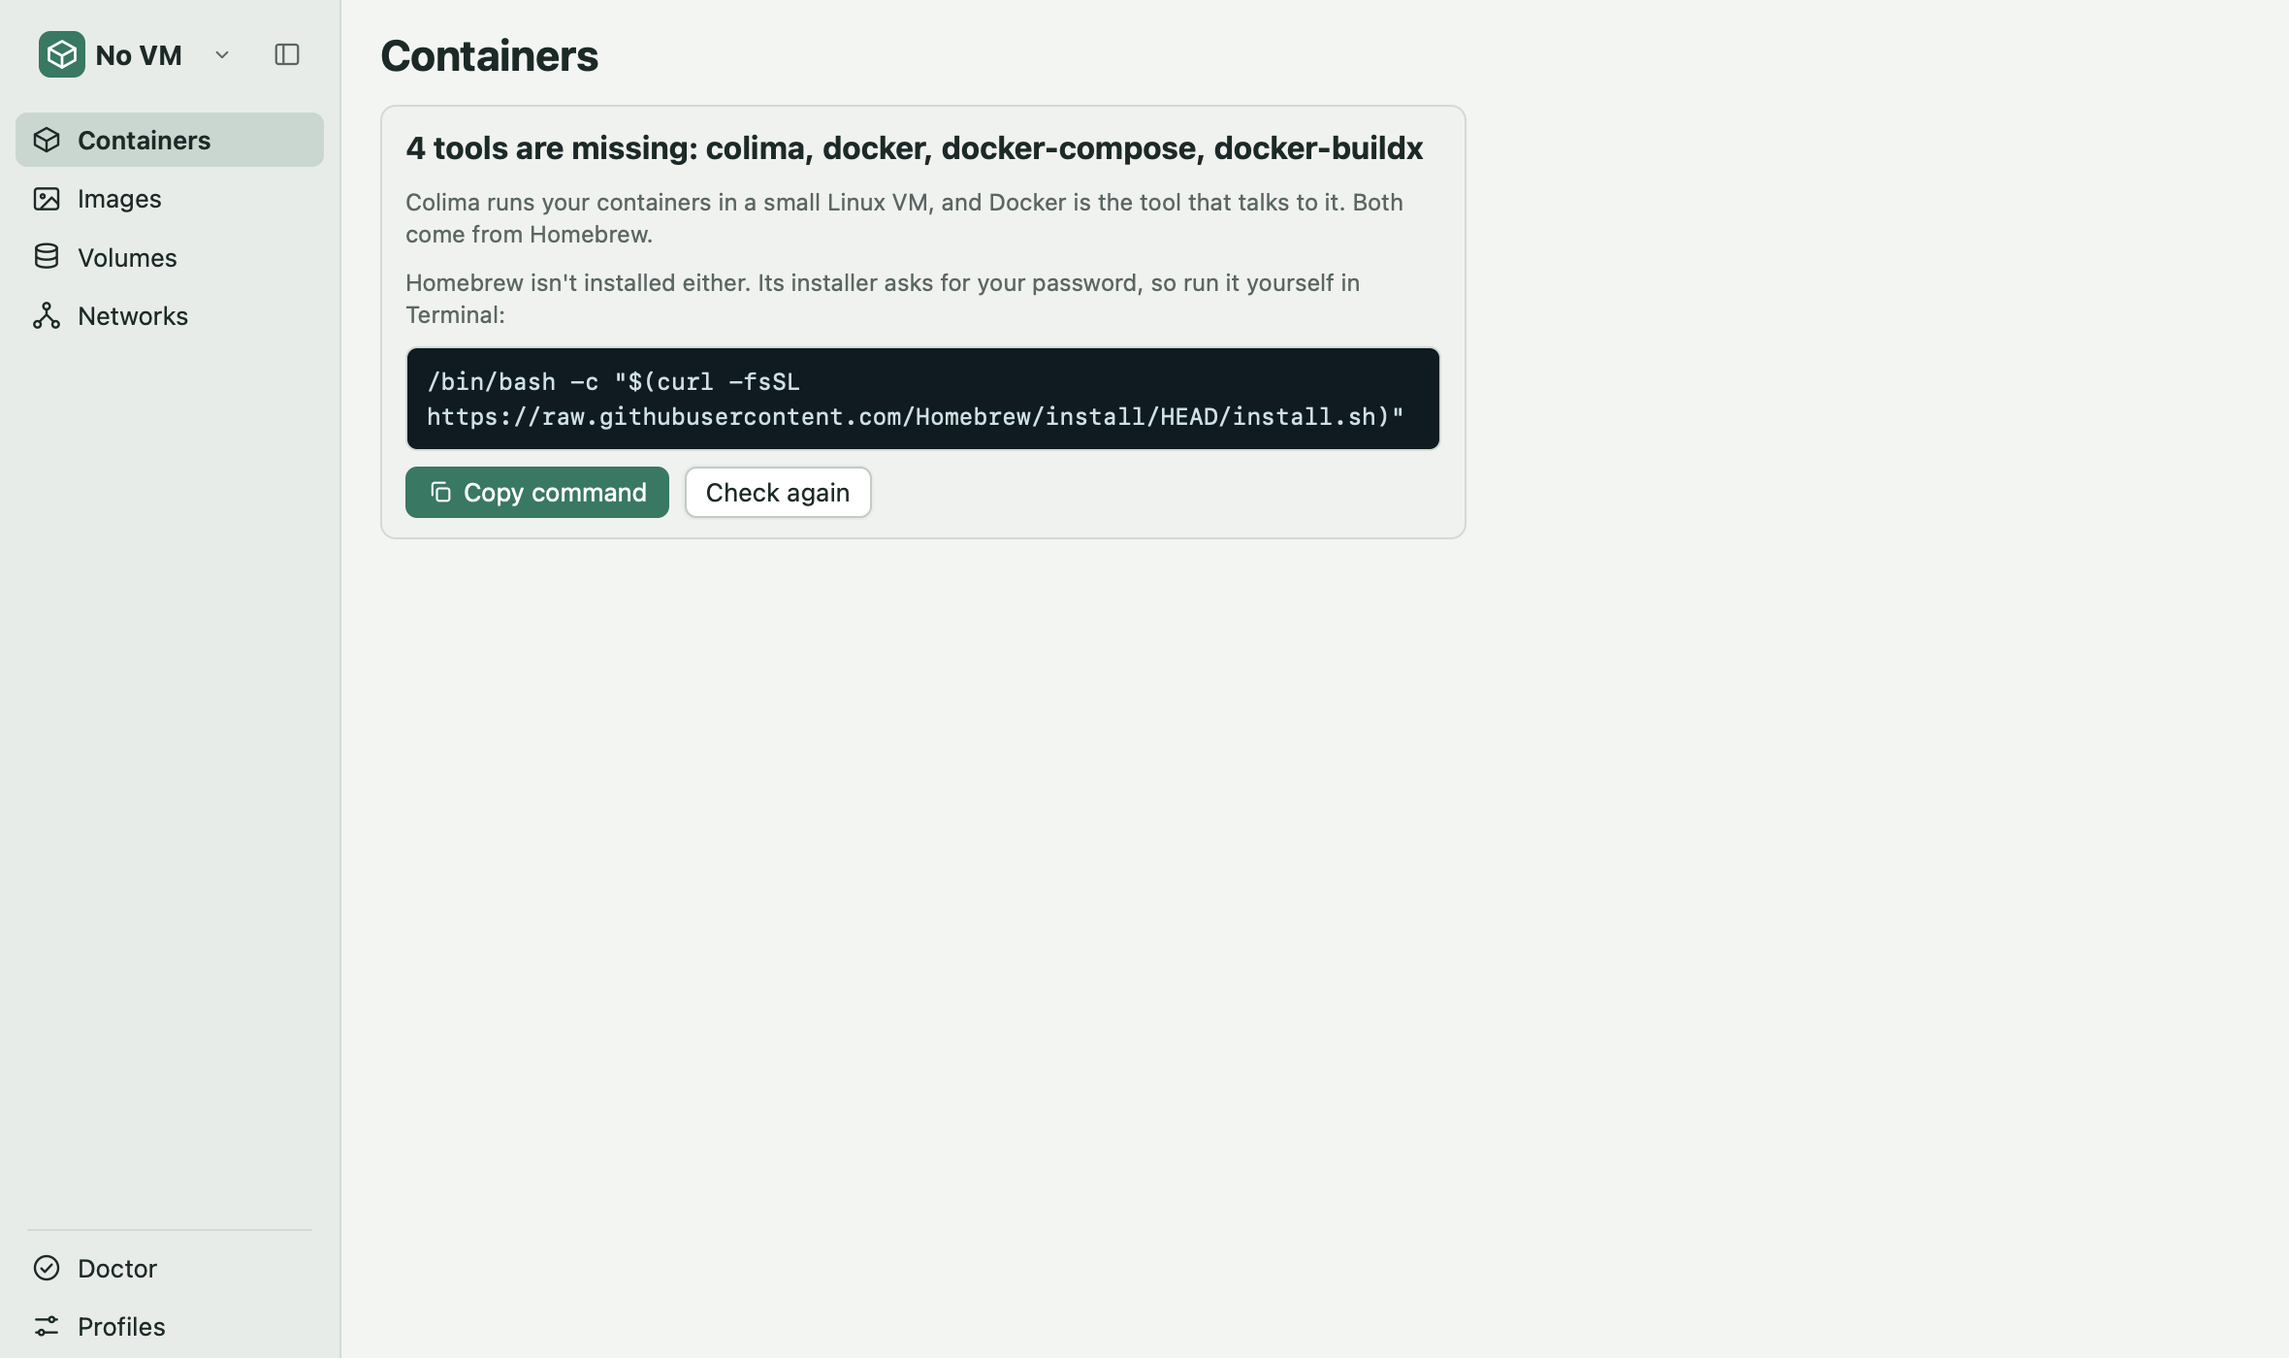
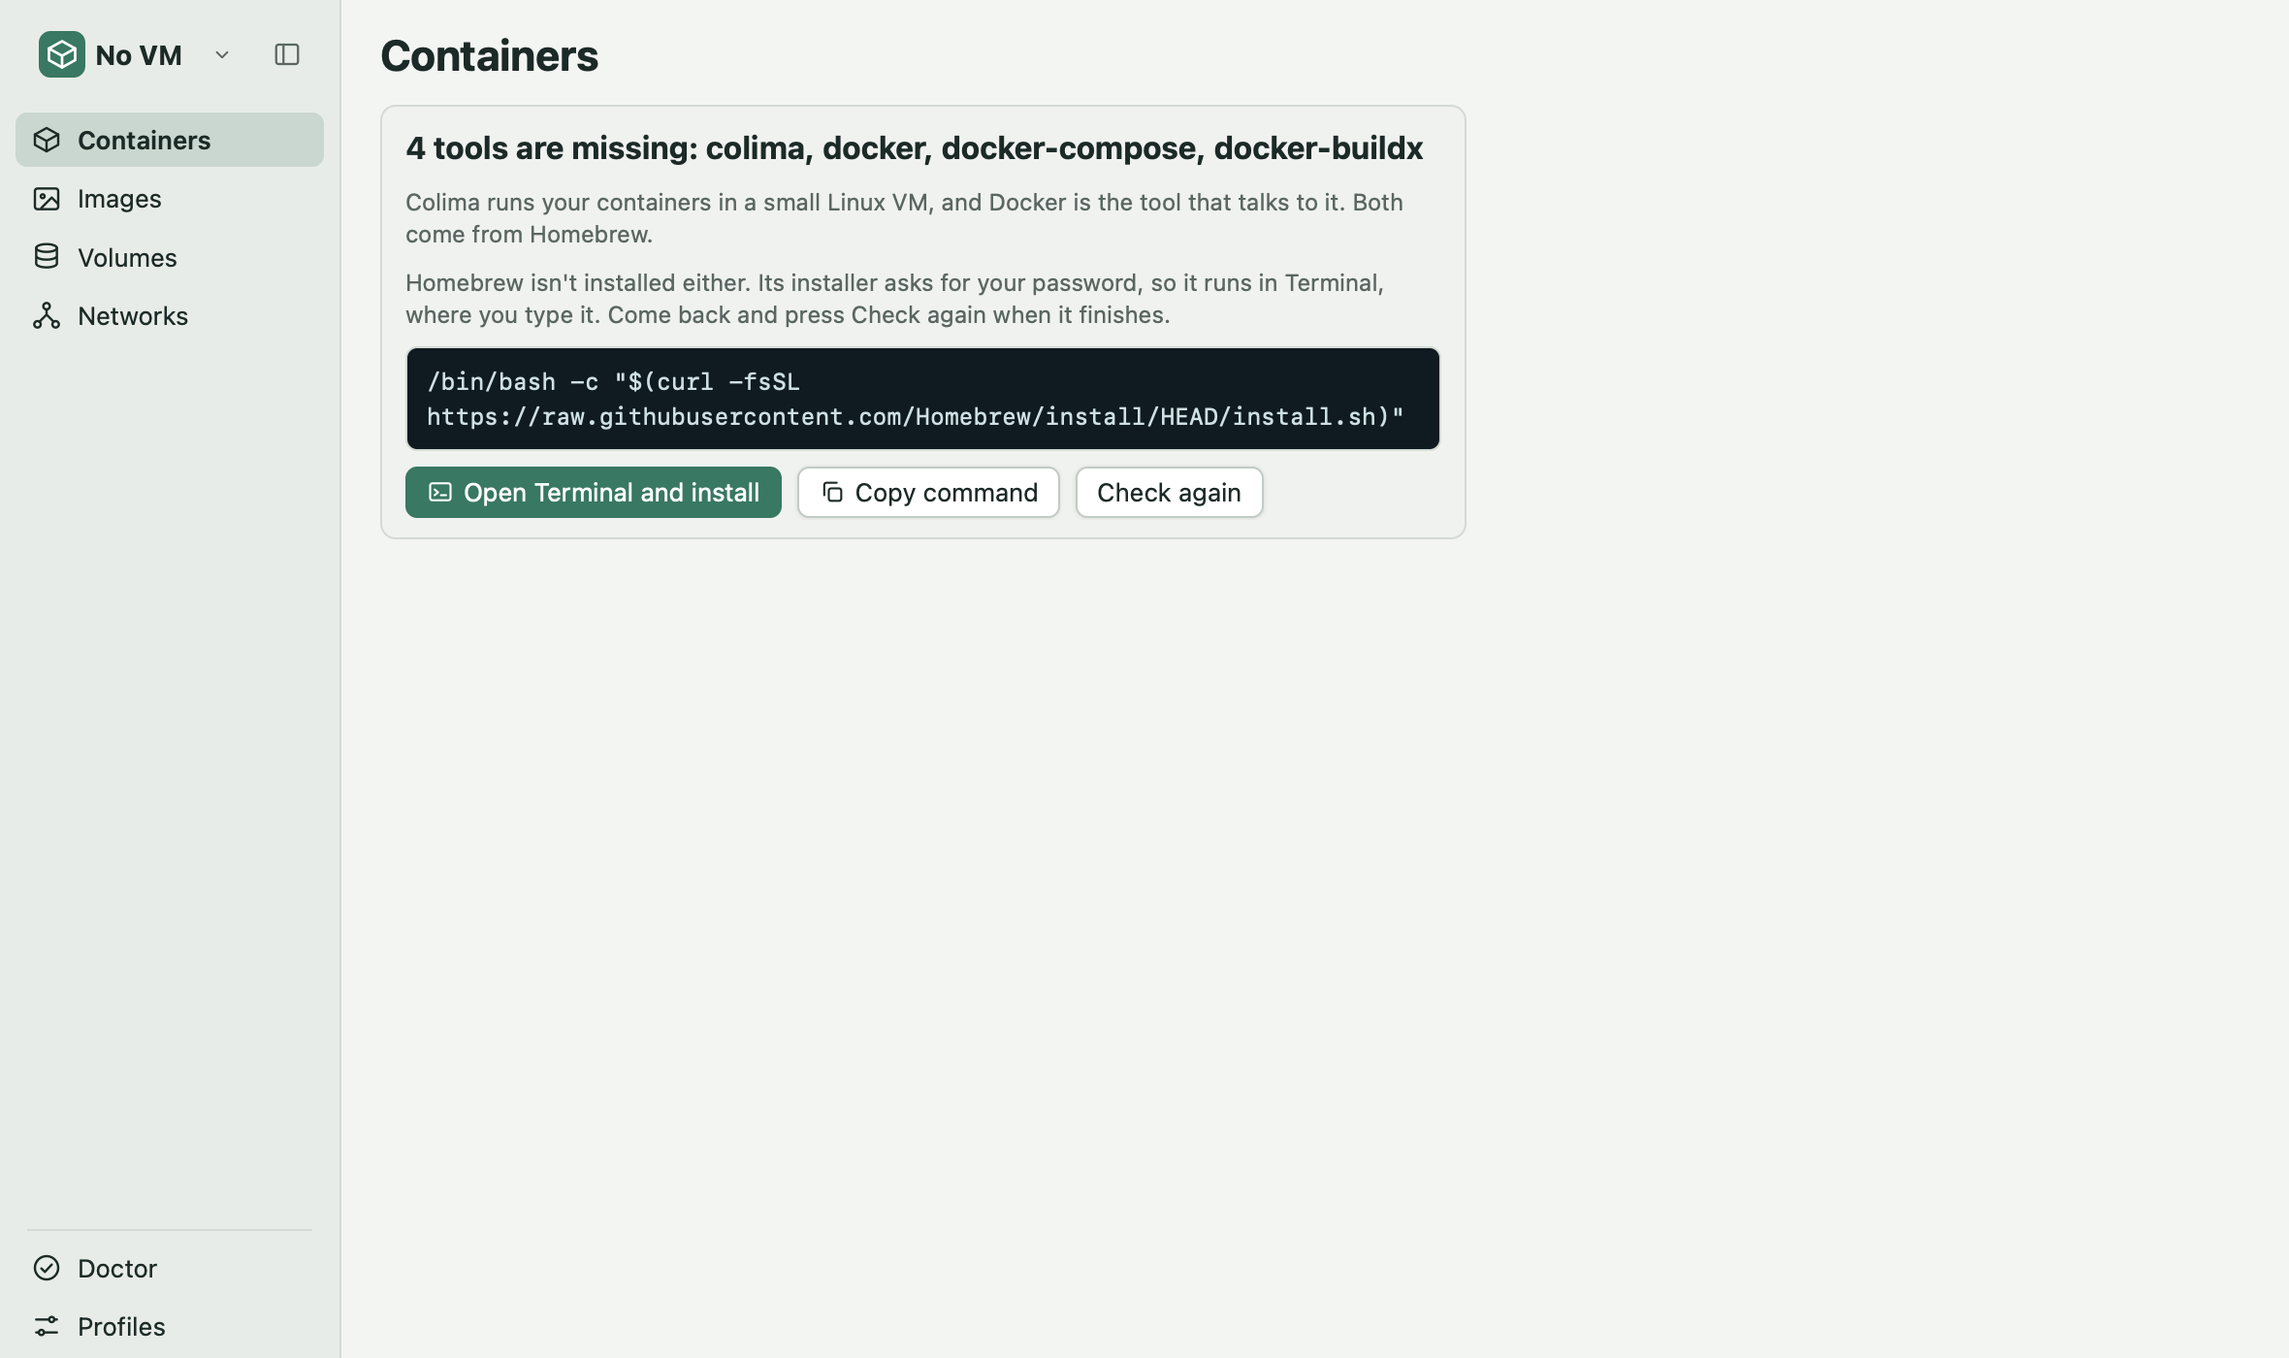
fix: one main action per Compose project, every option explained, no action links
Compose projects are compact rows with Start or Stop and a menu whose
items say when you'd use them; Down is now Remove containers. Action
links across the app are buttons. First launch opens Terminal to
install Homebrew. Escape in a menu no longer closes its panel.

Changed region(s): [[0.1856, 0.3379, 0.5568, 0.3993], [0.1856, 0.215, 0.4949, 0.2457], [0.5258, 0.1843, 0.5877, 0.215]]

diff --git a/src/ComposeProjects.tsx b/src/ComposeProjects.tsx
@@ -91,6 +91,7 @@ export default function ComposeProjects({ ctx, scan, containers, attention, onCl
   const confirm = useConfirm();
   const [q, setQ] = useState(query);
   const [err, setErr] = useState<string | null>(null);
+  const [cmdsOpen, setCmdsOpen] = useState<Set<string>>(new Set());
   const [added, setAdded] = useState<string | null>(null);
   // One project's live logs open at a time; a read, so it never waits for a run.
   const [logsDir, setLogsDir] = useState<string | null>(null);
@@ -188,6 +189,7 @@ export default function ComposeProjects({ ctx, scan, containers, attention, onCl
             { label: "Rebuild and start", ariaLabel: `Rebuild ${p.name}`, hint: "After you change a Dockerfile or the code it copies in", disabled: off, onSelect: () => void run(p, "build") },
             { label: "Update images and start", ariaLabel: `Update images of ${p.name}`, hint: "Downloads newer versions of the images first", disabled: off, onSelect: () => void run(p, "pull") },
             ...(p.total > 0 ? [{ label: logsHere ? "Hide logs" : "Show logs", ariaLabel: `Logs of ${p.name}`, hint: "What the services print, live", divider: true, onSelect: () => setLogsDir(logsHere ? null : p.dir) }] : []),
+            { label: cmdsOpen.has(p.dir) ? "Hide the commands" : "Run it yourself", ariaLabel: `${cmdsOpen.has(p.dir) ? "Hide" : "Show"} the commands to run ${p.name} yourself`, hint: "The commands to copy into Terminal", onSelect: () => setCmdsOpen((o) => { const n = new Set(o); if (!n.delete(p.dir)) n.add(p.dir); return n; }) },
             { label: "Show in Finder", ariaLabel: `Show ${p.name} in Finder`, hint: "Opens the folder with the Compose file", onSelect: () => void invoke("reveal_compose", { path: `${p.dir}/${p.files[0]}` }).then(() => setErr(null), (e) => setErr(String(e))) },
             ...((up || leftovers) ? [{ label: "Remove containers", ariaLabel: `Remove containers of ${p.name}`, hint: "Stops and removes them; volumes and data are kept", danger: true, divider: true, disabled: off, onSelect: () => void run(p, "down") }] : []),
           ];
@@ -217,8 +219,8 @@ export default function ComposeProjects({ ctx, scan, containers, attention, onCl
               )}
               {logsHere && <ComposeLogs ctx={ctx} file={`${p.dir}/${p.files[0]}`} project={p.name} />}
               {(mine || failed?.dir === p.dir) && <OutputLog event="compose-progress" active={mine} failure={failed?.dir === p.dir ? failed.text : null} />}
-              <details className="fix-commands">
-                <summary>Run it yourself</summary>
+              {cmdsOpen.has(p.dir) && (
+              <div className="fix-commands" role="group" aria-label={`Commands for ${p.name}`}>
                 {(up ? (["up", "restart", "stop", "down", "build", "pull"] as Action[]) : (["up", "build", "pull"] as Action[])).map((a) => (
                   <div key={a} className="cmd-row">
                     <span className="cmd-label">{label(a)}</span>
@@ -226,7 +228,8 @@ export default function ComposeProjects({ ctx, scan, containers, attention, onCl
                     <CopyCommand text={typed(p.dir, a, ctx)} label={`Copy the ${VERB[a][0].toLowerCase()} command for ${p.name}`} />
                   </div>
                 ))}
-              </details>
+              </div>
+              )}
             </li>
           );
         })}

diff --git a/src/styles.css b/src/styles.css
@@ -450,7 +450,7 @@ button.quiet:hover { border-color: var(--border); color: var(--ink); }
 .vol { display: flex; flex-direction: column; gap: 4px; width: 100%; }
 .vol .check { font-size: 13px; }
 .compose-list { list-style: none; margin: 0; padding: 0; display: flex; flex-direction: column; gap: 8px; }
-.compose-item { display: flex; flex-direction: column; gap: 4px; padding: 10px 12px; border: 1px solid var(--line); border-radius: 8px; background: var(--card); min-width: 0; }
+.compose-item { display: grid; grid-template-columns: minmax(0, 1fr) auto; column-gap: 8px; row-gap: 2px; align-items: center; padding: 8px 12px; border: 1px solid var(--line); border-radius: 8px; background: var(--card); min-width: 0; }
 .compose-head { display: flex; align-items: center; gap: 8px; }
 .compose-head .hint { margin-left: auto; }
 .compose-item .actions-inline { flex-wrap: wrap; row-gap: 4px; }
@@ -783,3 +783,16 @@ ul.findings.result-row { margin: 0; }
 .compose-item { position: relative; }
 .compose-item .menu { position: static; }
 .compose-item .menu-pop, .compose-item .menu-pop.left { left: 0; right: 0; width: auto; max-width: none; }
+
+/* Round 40: a compact row. Dot, name and count on the left, the one main button and the menu on the right, the folder under
+   the name; the longer things (a warning, a note, the commands, the output) span the whole row. */
+.compose-item > .compose-head { grid-column: 1; }
+.compose-item > .actions-inline { grid-column: 2; grid-row: 1; flex-wrap: nowrap; justify-content: flex-end; }
+.compose-item > :not(.compose-head):not(.actions-inline):not(.mono) { grid-column: 1 / -1; }
+.compose-item > .mono.sub { grid-column: 1; min-width: 0; }
+.compose-head .hint { margin-left: 8px; white-space: nowrap; }
+.compose-head b { overflow: hidden; text-overflow: ellipsis; white-space: nowrap; min-width: 0; }
+/* The search takes its own line, so the two buttons never wrap. */
+.drawer .inline:has(.search-field) { flex-wrap: wrap; }
+.drawer .inline .search-field { flex: 1 1 100%; }
+.drawer .inline > button { white-space: nowrap; }

diff --git a/src/InstallCard.tsx b/src/InstallCard.tsx
@@ -54,10 +54,13 @@ export default function InstallCard({ env, onDone }: { env: EnvReport; onDone: (
         </>
       ) : (
         <>
-          <p className="hint">Homebrew isn't installed either. Its installer asks for your password, so run it yourself in Terminal:</p>
+          <p className="hint">Homebrew isn't installed either. Its installer asks for your password, so it runs in Terminal, where you type it. Come back and press Check again when it finishes.</p>
           <pre className="cmd">{BOOTSTRAP}</pre>
           <div className="actions-inline">
-            <button className="primary" onClick={() => navigator.clipboard.writeText(BOOTSTRAP)}>
+            <button className="primary" onClick={() => invoke("open_homebrew_install").catch((e) => setNote(String(e)))}>
+              <Icon name="terminal" size={14} /> Open Terminal and install
+            </button>
+            <button onClick={() => navigator.clipboard.writeText(BOOTSTRAP)}>
               <Icon name="copy" size={14} /> Copy command
             </button>
             <button onClick={onDone}>Check again</button>

diff --git a/preview/mock.ts b/preview/mock.ts
@@ -349,6 +349,7 @@ export async function invoke<T>(cmd: string, a: Record<string, any> = {}): Promi
       const tcp = shared && declared.includes(a.port) ? `Connection to ${a.target} (${ipOf(to!, "devnet")}) ${a.port} port [tcp/*] succeeded!\n` : `nc: connect to ${a.target} port ${a.port} (tcp) failed: Connection refused\n`;
       return `${dns}::dns-exit=${shared ? 0 : 1}\n${tcp}::tcp-exit=${shared && declared.includes(a.port) ? 0 : 1}\n` as T;
     }
+    case "open_homebrew_install": ((window as any).__terminal ??= []).push({ kind: "brew_install" }); return undefined as T;
     case "open_terminal": ((window as any).__terminal ??= []).push({ kind: a.kind, context: a.context, target: a.target }); return undefined as T;
     case "kubectl": {
       const args: string[] = a.args;

diff --git a/src-tauri/src/main.rs b/src-tauri/src/main.rs
@@ -362,6 +362,21 @@ fn open_terminal(kind: String, context: String, target: Option<String>) -> Resul
         .map_err(|e| e.to_string())
 }
 
+// Homebrew's own installer line, fixed text. It asks for the person's password, so it runs in Terminal, not in the app.
+const BREW_INSTALL_SCRIPT: &str = r#"tell application "Terminal" to do script "/bin/bash -c \"$(curl -fsSL https://raw.githubusercontent.com/Homebrew/install/HEAD/install.sh)\"""#;
+
+#[tauri::command]
+fn open_homebrew_install() -> Result<(), String> {
+    if !cfg!(target_os = "macos") {
+        return Err("Opening Terminal is only supported on macOS".into());
+    }
+    Command::new("osascript")
+        .args(["-e", BREW_INSTALL_SCRIPT, "-e", "tell application \"Terminal\" to activate"])
+        .spawn()
+        .map(|_| ())
+        .map_err(|e| e.to_string())
+}
+
 fn terminal_command(kind: &str, context: &str, target: Option<&str>) -> Result<String, String> {
     if !context_ok(context) {
         return Err(format!("Unknown context \"{context}\""));
@@ -1710,7 +1725,7 @@ fn cancel_compose() -> bool {
 fn main() {
     tauri::Builder::default()
         .invoke_handler(tauri::generate_handler![
-            list_profiles, docker, docker_check, docker_pull, env_check, install_tools, network_probe, kubectl, open_terminal, start_profile, apply_resources,
+            list_profiles, docker, docker_check, docker_pull, env_check, install_tools, network_probe, kubectl, open_terminal, open_homebrew_install, start_profile, apply_resources,
             stop_profile, force_stop_profile, restart_profile, colima_config, network_facts, vm_dns_probe, apply_mounts, apply_env, force_restart_profile, delete_profile, cancel_vm_op, host_resources, vm_log_tail, reveal_vm_log, open_url, pick_folder, setup_report, setup_fix, find_compose_files, reveal_compose, compose_editor, open_compose, compose_config, compose_action, cancel_compose, compose_logs, compose_in_folder, container_shell,
             desktop::desktop_state, desktop::desktop_docker, desktop::desktop_copy, desktop::desktop_copy_stop, desktop::desktop_start, desktop::desktop_replace, desktop::open_docker_desktop
         ])
@@ -2438,6 +2453,9 @@ mod tests {
             assert!(terminal_script(bad).is_none(), "{bad}");
         }
         assert!(terminal_script("k9s --context colima").unwrap().contains("do script"));
+        // Homebrew's installer line is fixed text, with its quotes escaped for AppleScript; nothing is taken from outside.
+        assert!(BREW_INSTALL_SCRIPT.contains("Homebrew/install/HEAD/install.sh"));
+        assert!(BREW_INSTALL_SCRIPT.contains("-c \\\""));
     }
 
     #[test]

diff --git a/README.md b/README.md
@@ -38,7 +38,7 @@ Apple Silicon Macs. Prefer to click? See [Install by hand](#install-by-hand).
 
 ## First launch
 
-On a fresh Mac, the app sees what's missing and offers to install it with one click: Colima, the Docker CLI, Compose and Buildx.
+On a fresh Mac, the app sees what's missing and offers to install it with one click: Colima, the Docker CLI, Compose and Buildx. If Homebrew itself is missing, one button opens Terminal with its installer, where you type your password.
 
 ![First launch: the app installs what's missing](docs/screenshots/setup.png)
 
@@ -73,7 +73,7 @@ Prereqs: Node 22.6+, Rust (rustup), Colima and the Docker CLI (`brew install col
 The app talks to the docker context Colima creates for the selected profile (`colima`, or `colima-<profile>`).
 
 ## What it does
-- **Containers** (home): the VM in one line (state, CPU, memory, disk, Restart, Stop), then every container with status, problems, port links, CPU and memory. Compose projects are grouped; Kubernetes pod containers sit in their own folded group and can't be stopped or removed here. Rows are one line; their checkbox and Logs, Shell, Restart, Stop and Remove show on hover or focus. Pick several rows to start, stop or remove them together (only rows you can see: folded groups are left out). The New menu runs or pulls an image, or lists the Compose projects on your Mac (found with Spotlight when the app opens), with the command to start each in the profile on screen. The profile switcher at the top of the sidebar changes profile and starts or stops any of them; Doctor and Profiles sit at the bottom. The sidebar folds to icons and remembers it. A container page has logs, inspect, stats, mounts, health, activity, network checks and Open a shell.
+- **Containers** (home): the VM in one line (state, CPU, memory, disk, Restart, Stop), then every container with status, problems, port links, CPU and memory. Compose projects are grouped; Kubernetes pod containers sit in their own folded group and can't be stopped or removed here. Rows are one line; their checkbox and Logs, Shell, Restart, Stop and Remove show on hover or focus. Pick several rows to start, stop or remove them together (only rows you can see: folded groups are left out). The New menu runs or pulls an image, or lists the Compose projects on your Mac (found with Spotlight when the app opens). Each project is one row with Start or Stop and a ⋯ menu: Rebuild and start, Update images and start, logs, Show in Finder, Remove containers (volumes stay), and the commands to run it yourself. The profile switcher at the top of the sidebar changes profile and starts or stops any of them; Doctor and Profiles sit at the bottom. The sidebar folds to icons and remembers it. A container page has logs, inspect, stats, mounts, health, activity, network checks and Open a shell.
 - **Images**: search your images, pull (Docker Hub search, a name, or a private registry such as GHCR, ECR or Google Artifact Registry), guided Run that reads what the image declares, and what takes space inside the VM, with one cleanup per kind (never your volumes).
 - **Volumes**: sizes and which containers use them; in-use volumes can't be removed.
 - **Networks**: create, connect, and Test a connection ("why can't A reach B?").

diff --git a/CHANGELOG.md b/CHANGELOG.md
@@ -2,6 +2,14 @@
 
 Newest first. Older entries record what was true when they were written; later entries supersede them (the Overview, for example, was replaced by the Containers home screen).
 
+## Loop 5, round 40: one main action, a menu for the rest, links only go places
+
+1. **Compose card** is one compact row: dot, name, count, Start (or Stop), and a "More actions for <name>" menu. The menu has Stop (partly running), Restart, Rebuild and start, Update images and start, Show logs, Run it yourself, Show in Finder and Remove containers (was Down; compose down never gets `-v`, so volumes stay). Each item has a one-line hint. The menu opens across the card so hints fit.
+2. **Links to buttons**: Don't ask again, Run again, the fix Dismiss, Show it again and Show the docker run command are push buttons now. The links left (All commands, Change in Profiles, Go to the fix, Docker Hub, docs, port links, Find it on Docker Hub, Show N projects, a pod's name) all go to a place.
+3. **Menu**: Escape closes only the menu, not the panel around it. "Not an issue" has a plain hint.
+4. **Drawer toolbar**: the search takes its own line, so Scan again and Add a folder never wrap.
+5. **First launch without Homebrew**: Open Terminal and install runs Homebrew's installer in Terminal (`open_homebrew_install`); Copy command stays as the second option.
+
 ## Loop 5, round 39: Start VM never changes meaning, the way back is checked before it runs
 
 1. **Two buttons on the stopped card.** While the profile still has the failed folder list saved, the card offers a plain **Start VM** (starts what is saved) and the filled **Start with the folders you had** on the right edge, with one line: "The last change didn't start. `~/code/web` is still saved in the profile, so Start VM tries it again." With nothing to go back to, the card is just Start VM. This replaces round 38 item 6, where the plain Start VM ran the way back by itself.
